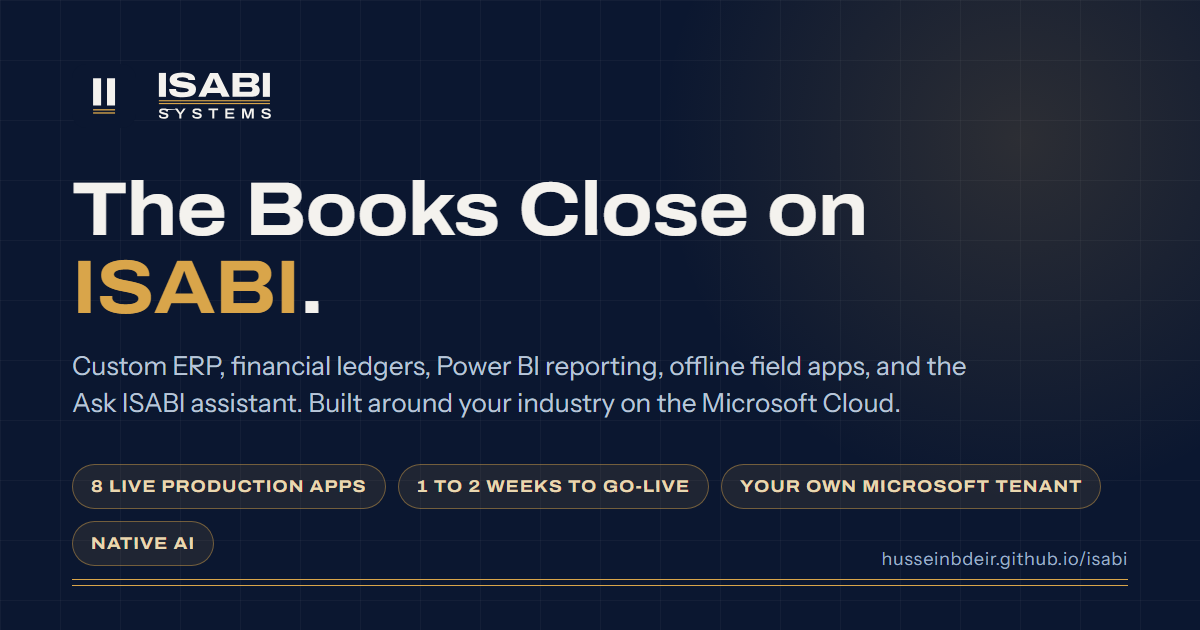
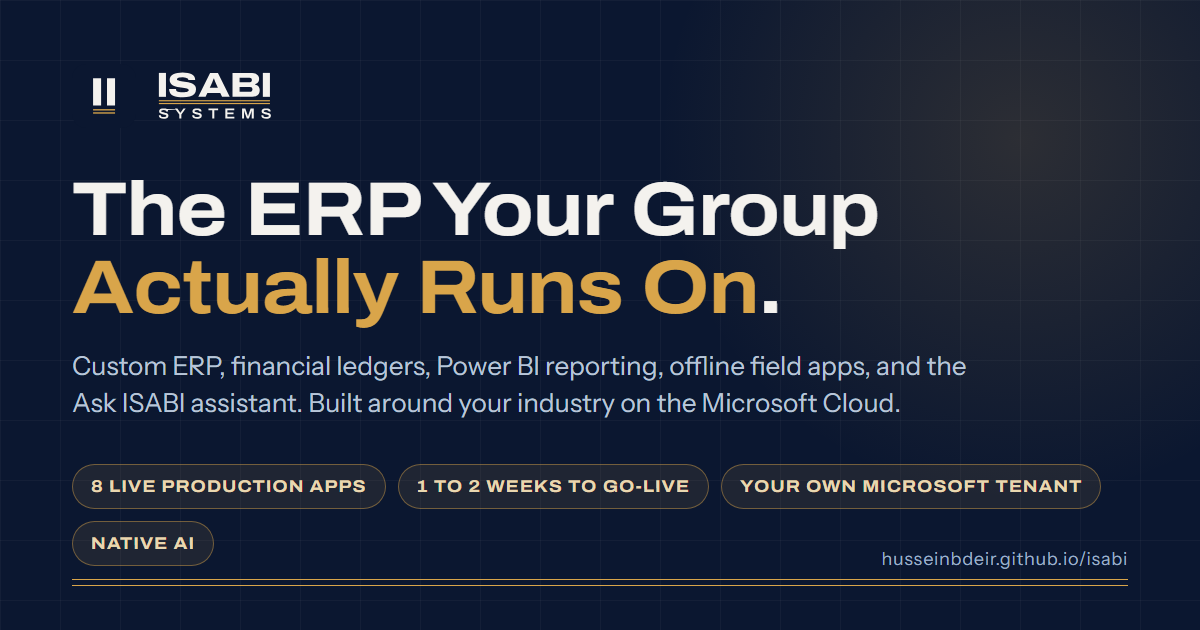
v4.2: Hero headline "The ERP Your Group Actually Runs On" replaces "The Books Close on ISABI" (hero, footer, OG meta, JSON-LD slogan, og-image)

Changed region(s): [[0.0617, 0.2714, 0.74, 0.5127]]

diff --git a/index.html b/index.html
@@ -14,11 +14,11 @@
   <meta property="og:locale" content="en_US">
   <meta property="og:url" content="https://husseinbdeir.github.io/isabi/">
   <meta property="og:title" content="ISABI Systems | Custom ERP, Power BI and Native AI on the Microsoft Cloud">
-  <meta property="og:description" content="The Books Close on ISABI. Custom ERP, financial ledgers, Power BI reporting, offline field apps, and the Ask ISABI assistant, built around your industry and delivered in 1 to 2 weeks.">
+  <meta property="og:description" content="The ERP Your Group Actually Runs On. Custom apps, financial ledgers, Power BI reporting, offline field apps, and the Ask ISABI assistant, built around your industry and delivered in 1 to 2 weeks.">
   <meta property="og:image" content="https://husseinbdeir.github.io/isabi/og-image.png">
   <meta property="og:image:width" content="1200">
   <meta property="og:image:height" content="630">
-  <meta property="og:image:alt" content="ISABI Systems. The Books Close on ISABI.">
+  <meta property="og:image:alt" content="ISABI Systems. The ERP Your Group Actually Runs On.">
   <meta name="twitter:card" content="summary_large_image">
   <meta name="twitter:title" content="ISABI Systems | Custom ERP, Power BI and Native AI on the Microsoft Cloud">
   <meta name="twitter:description" content="Custom ERP, financial ledgers, Power BI reporting, offline field apps, and the Ask ISABI assistant, built around your industry.">
@@ -48,7 +48,7 @@
       } catch (e) {}
     })();
   </script>
-  <script type="application/ld+json">{"@context": "https://schema.org", "@type": "ProfessionalService", "@id": "https://husseinbdeir.github.io/isabi/#org", "name": "ISABI Systems", "url": "https://husseinbdeir.github.io/isabi/", "logo": "https://husseinbdeir.github.io/isabi/icon-512.png", "image": "https://husseinbdeir.github.io/isabi/og-image.png", "slogan": "The Books Close on ISABI", "description": "Custom ERP applications, financial ledgers, Power BI reporting, offline field apps, and the Ask ISABI assistant on the Microsoft Cloud.", "email": "hbdeir16@gmail.com", "telephone": "+96170444955", "founder": {"@type": "Person", "name": "Hussein Bdeir", "jobTitle": "Founder and Principal Systems Architect"}, "areaServed": ["Lebanon", "Middle East", "Worldwide"], "address": {"@type": "PostalAddress", "addressCountry": "LB"}, "knowsAbout": ["Enterprise Resource Planning", "Microsoft Dataverse", "Power BI", "Double-Entry Accounting", "Progressive Web Apps", "AI Assistants"], "contactPoint": [{"@type": "ContactPoint", "contactType": "sales", "telephone": "+96170444955", "email": "hbdeir16@gmail.com", "availableLanguage": ["en"]}], "priceRange": "$4,500 to $18,000+"}</script>
+  <script type="application/ld+json">{"@context": "https://schema.org", "@type": "ProfessionalService", "@id": "https://husseinbdeir.github.io/isabi/#org", "name": "ISABI Systems", "url": "https://husseinbdeir.github.io/isabi/", "logo": "https://husseinbdeir.github.io/isabi/icon-512.png", "image": "https://husseinbdeir.github.io/isabi/og-image.png", "slogan": "The ERP Your Group Actually Runs On", "description": "Custom ERP applications, financial ledgers, Power BI reporting, offline field apps, and the Ask ISABI assistant on the Microsoft Cloud.", "email": "hbdeir16@gmail.com", "telephone": "+96170444955", "founder": {"@type": "Person", "name": "Hussein Bdeir", "jobTitle": "Founder and Principal Systems Architect"}, "areaServed": ["Lebanon", "Middle East", "Worldwide"], "address": {"@type": "PostalAddress", "addressCountry": "LB"}, "knowsAbout": ["Enterprise Resource Planning", "Microsoft Dataverse", "Power BI", "Double-Entry Accounting", "Progressive Web Apps", "AI Assistants"], "contactPoint": [{"@type": "ContactPoint", "contactType": "sales", "telephone": "+96170444955", "email": "hbdeir16@gmail.com", "availableLanguage": ["en"]}], "priceRange": "$4,500 to $18,000+"}</script>
   <script type="application/ld+json">{"@context": "https://schema.org", "@type": "FAQPage", "mainEntity": [{"@type": "Question", "name": "Do we need to buy Microsoft licences?", "acceptedAnswer": {"@type": "Answer", "text": "Yes. Microsoft bills the licences directly to your own tenant, typically Power Apps for ERP users and Power BI for report readers. ISABI Systems adds no mark-up and no per-terminal fee for the companion POS and kiosk apps. The exact licence mix is confirmed on the discovery call."}}, {"@type": "Question", "name": "Who owns the system and the data?", "acceptedAnswer": {"@type": "Answer", "text": "You do. The database, applications, flows, and reports all live inside your Microsoft 365 tenant under your administrators. ISABI Systems keeps no copy of your data, and the system keeps running if you ever pause the support retainer."}}, {"@type": "Question", "name": "How does ISABI compare to Odoo, Zoho, or off-the-shelf ERP?", "acceptedAnswer": {"@type": "Answer", "text": "Off-the-shelf tools like Odoo give you generic modules and charge per user and per app, then require expensive workarounds when your business has partner profit splits, bonded VIN customs, ready-mix batch tickets, or regional Class 1 to 7 charts of accounts. ISABI builds the exact data model, Power BI suite, printable statements, and offline field apps around your workflow inside your own Microsoft tenant in 1 to 2 weeks."}}, {"@type": "Question", "name": "Does our accountant have to change software?", "acceptedAnswer": {"@type": "Answer", "text": "No. Your statutory books can stay in the software your accountant already uses. ISABI runs as the operational and management ledger and reconciles against the statutory trial balance every month, down to the last cent. Many clients move the statutory books over later, once they trust the match."}}, {"@type": "Question", "name": "Can you migrate our history from Excel or a legacy system?", "acceptedAnswer": {"@type": "Answer", "text": "Yes. Historical workbooks and exports are mapped into the new chart of accounts and loaded with the original document numbers and dates kept intact. The old and new systems then run in parallel until the variance between them is zero, and only then do we cut over."}}, {"@type": "Question", "name": "How does Ask ISABI treat confidential figures?", "acceptedAnswer": {"@type": "Answer", "text": "Ask ISABI reads data through the same security roles as the signed-in user, so a branch accountant cannot ask about another branch. Every answer cites the ledger entries or report measures it used, and the assistant runs inside your tenant rather than on a shared public service."}}, {"@type": "Question", "name": "What happens at our POS till or gate kiosk if the internet drops?", "acceptedAnswer": {"@type": "Answer", "text": "Nothing stops. Both the POS Till and the Biometric Attendance Kiosk are offline-first Progressive Web Apps. They ring sales, print thermal receipts over Bluetooth, and verify faces and PINs locally on the device, then sync automatically to Dataverse the moment connectivity returns."}}, {"@type": "Question", "name": "What happens in the first two weeks?", "acceptedAnswer": {"@type": "Answer", "text": "Days 1 to 3 set up the chart of accounts, tables, and security roles. Days 3 to 6 add the workflows, approvals, and any field apps. Days 6 to 10 deliver the Power BI models and printable statements. Days 10 to 14 wire in Ask ISABI, train the team, and go live."}}, {"@type": "Question", "name": "Can we start small and add modules later?", "acceptedAnswer": {"@type": "Answer", "text": "Yes. Most clients begin with the Operational Foundation for one company and add branches, Power BI workspaces, field apps, or Ask ISABI as they grow. Because the data model is yours from day one, nothing has to be rebuilt to add a module."}}, {"@type": "Question", "name": "Where are you based and who do you work with?", "acceptedAnswer": {"@type": "Answer", "text": "ISABI Systems is based in Lebanon and works remotely with owner-led companies and holding groups across the Middle East and beyond. Discovery calls, walkthroughs, and training are run over Teams or WhatsApp in the time zone that suits you."}}]}</script>
 <style>
 :root,
@@ -4958,9 +4958,9 @@ html.js-io .reveal.in:not(.done):nth-child(4) { transition-delay: 0.21s; }
     <div class="wrap hero-grid">
       <div>
         <div class="eyebrow">✨ ISABI Systems · Interactive Enterprise Cloud &amp; Native AI</div>
-        <h1 class="hero-title">The Books Close on <span class="brass-text">ISABI</span>.</h1>
+        <h1 class="hero-title">The ERP Your Group<br><span class="brass-text">Actually Runs On</span>.</h1>
         <p class="hero-lead">
-          Custom Microsoft Cloud ERP apps, real-time Power BI dashboards, offline field PWAs, and a cited AI assistant: engineered around how your business actually runs in 1 to 2 weeks.
+          Custom Microsoft Cloud ERP apps, real-time Power BI dashboards, offline field PWAs, and a cited AI assistant: engineered around how your business works, live in 1 to 2 weeks.
         </p>
         <div class="hero-cta-row">
           <a href="#sandbox" class="btn btn-brass">🎮 Launch Live Sandbox</a>
@@ -6109,7 +6109,7 @@ html.js-io .reveal.in:not(.done):nth-child(4) { transition-delay: 0.21s; }
           <svg xmlns="http://www.w3.org/2000/svg" viewBox="0 0 120 120" class="brand-badge" role="img" aria-label="ISABI Systems Badge"><rect width="120" height="120" rx="26" fill="#0B1730"/><g transform="translate(39.52,77.62) scale(0.74)"><g fill="#F4F2EE"><path transform="translate(-8.45,0)" d="M8.45 0V-68.75H28.81V0Z"/><path transform="translate(-10.45,0)" d="M45.75 0V-68.75H66.11V0Z"/></g><g fill="#D9A54A"><rect x="0" y="9.5" width="55.66" height="3.4"/><rect x="0" y="17.5" width="55.66" height="3.4"/></g></g></svg>
           <div>
             <b style="font-family:Archivo,sans-serif;font-size:17px;display:block;letter-spacing:0.04em">ISABI SYSTEMS</b>
-            <span style="font-size:12px;color:#D9A54A">The Books Close on ISABI</span>
+            <span style="font-size:12px;color:#D9A54A">The ERP Your Group Actually Runs On</span>
           </div>
         </div>
         <p style="margin:0 0 12px;color:#9FB0C7;font-size:13px">

diff --git a/sw.js b/sw.js
@@ -1,4 +1,4 @@
-const CACHE_NAME = 'isabi-systems-pwa-v4.1';
+const CACHE_NAME = 'isabi-systems-pwa-v4.2';
 const ASSETS = [
   './',
   './index.html',

diff --git a/build/assemble.py b/build/assemble.py
@@ -27,11 +27,11 @@ HEAD = """<!DOCTYPE html>
   <meta property="og:locale" content="en_US">
   <meta property="og:url" content="https://husseinbdeir.github.io/isabi/">
   <meta property="og:title" content="ISABI Systems | Custom ERP, Power BI and Native AI on the Microsoft Cloud">
-  <meta property="og:description" content="The Books Close on ISABI. Custom ERP, financial ledgers, Power BI reporting, offline field apps, and the Ask ISABI assistant, built around your industry and delivered in 1 to 2 weeks.">
+  <meta property="og:description" content="The ERP Your Group Actually Runs On. Custom apps, financial ledgers, Power BI reporting, offline field apps, and the Ask ISABI assistant, built around your industry and delivered in 1 to 2 weeks.">
   <meta property="og:image" content="https://husseinbdeir.github.io/isabi/og-image.png">
   <meta property="og:image:width" content="1200">
   <meta property="og:image:height" content="630">
-  <meta property="og:image:alt" content="ISABI Systems. The Books Close on ISABI.">
+  <meta property="og:image:alt" content="ISABI Systems. The ERP Your Group Actually Runs On.">
   <meta name="twitter:card" content="summary_large_image">
   <meta name="twitter:title" content="ISABI Systems | Custom ERP, Power BI and Native AI on the Microsoft Cloud">
   <meta name="twitter:description" content="Custom ERP, financial ledgers, Power BI reporting, offline field apps, and the Ask ISABI assistant, built around your industry.">
@@ -74,7 +74,7 @@ ORG_JSONLD = _json.dumps({
     "url": "https://husseinbdeir.github.io/isabi/",
     "logo": "https://husseinbdeir.github.io/isabi/icon-512.png",
     "image": "https://husseinbdeir.github.io/isabi/og-image.png",
-    "slogan": "The Books Close on ISABI",
+    "slogan": "The ERP Your Group Actually Runs On",
     "description": "Custom ERP applications, financial ledgers, Power BI reporting, offline field apps, and the Ask ISABI assistant on the Microsoft Cloud.",
     "email": "hbdeir16@gmail.com",
     "telephone": "+96170444955",

diff --git a/build/part_body.py b/build/part_body.py
@@ -54,9 +54,9 @@ BODY = f"""
     <div class="wrap hero-grid">
       <div>
         <div class="eyebrow">✨ ISABI Systems · Interactive Enterprise Cloud &amp; Native AI</div>
-        <h1 class="hero-title">The Books Close on <span class="brass-text">ISABI</span>.</h1>
+        <h1 class="hero-title">The ERP Your Group<br><span class="brass-text">Actually Runs On</span>.</h1>
         <p class="hero-lead">
-          Custom Microsoft Cloud ERP apps, real-time Power BI dashboards, offline field PWAs, and a cited AI assistant: engineered around how your business actually runs in 1 to 2 weeks.
+          Custom Microsoft Cloud ERP apps, real-time Power BI dashboards, offline field PWAs, and a cited AI assistant: engineered around how your business works, live in 1 to 2 weeks.
         </p>
         <div class="hero-cta-row">
           <a href="#sandbox" class="btn btn-brass">🎮 Launch Live Sandbox</a>
@@ -1141,7 +1141,7 @@ BODY = f"""
           {BADGE_SVG}
           <div>
             <b style="font-family:Archivo,sans-serif;font-size:17px;display:block;letter-spacing:0.04em">ISABI SYSTEMS</b>
-            <span style="font-size:12px;color:#D9A54A">The Books Close on ISABI</span>
+            <span style="font-size:12px;color:#D9A54A">The ERP Your Group Actually Runs On</span>
           </div>
         </div>
         <p style="margin:0 0 12px;color:#9FB0C7;font-size:13px">

diff --git a/build/make_og.py b/build/make_og.py
@@ -42,7 +42,7 @@ HTML = f"""<!doctype html>
   <div class="card">
     <div class="brand">{BADGE_SVG}{WORDMARK_HEADER_SVG}</div>
     <div>
-      <h1>The Books Close on <b>ISABI</b>.</h1>
+      <h1>The ERP Your Group <b>Actually Runs On</b>.</h1>
       <p>Custom ERP, financial ledgers, Power BI reporting, offline field apps, and the Ask ISABI assistant. Built around your industry on the Microsoft Cloud.</p>
     </div>
     <div class="chips">

diff --git a/build/verify_dom.py b/build/verify_dom.py
@@ -24,7 +24,7 @@ def run_dom_and_screenshots():
         )
         dom = res.stdout
         checks = [
-            ('Hero title', 'The Books Close on'),
+            ('Hero title', 'The ERP Your Group'),
             ('Rendered Industry Tab', 'Hospitality, Resorts'),
             ('Rendered Industry Modules', 'Multi-Property Business Unit Isolation'),
             ('Rendered Sandbox Chart', 'class="chart"'),
